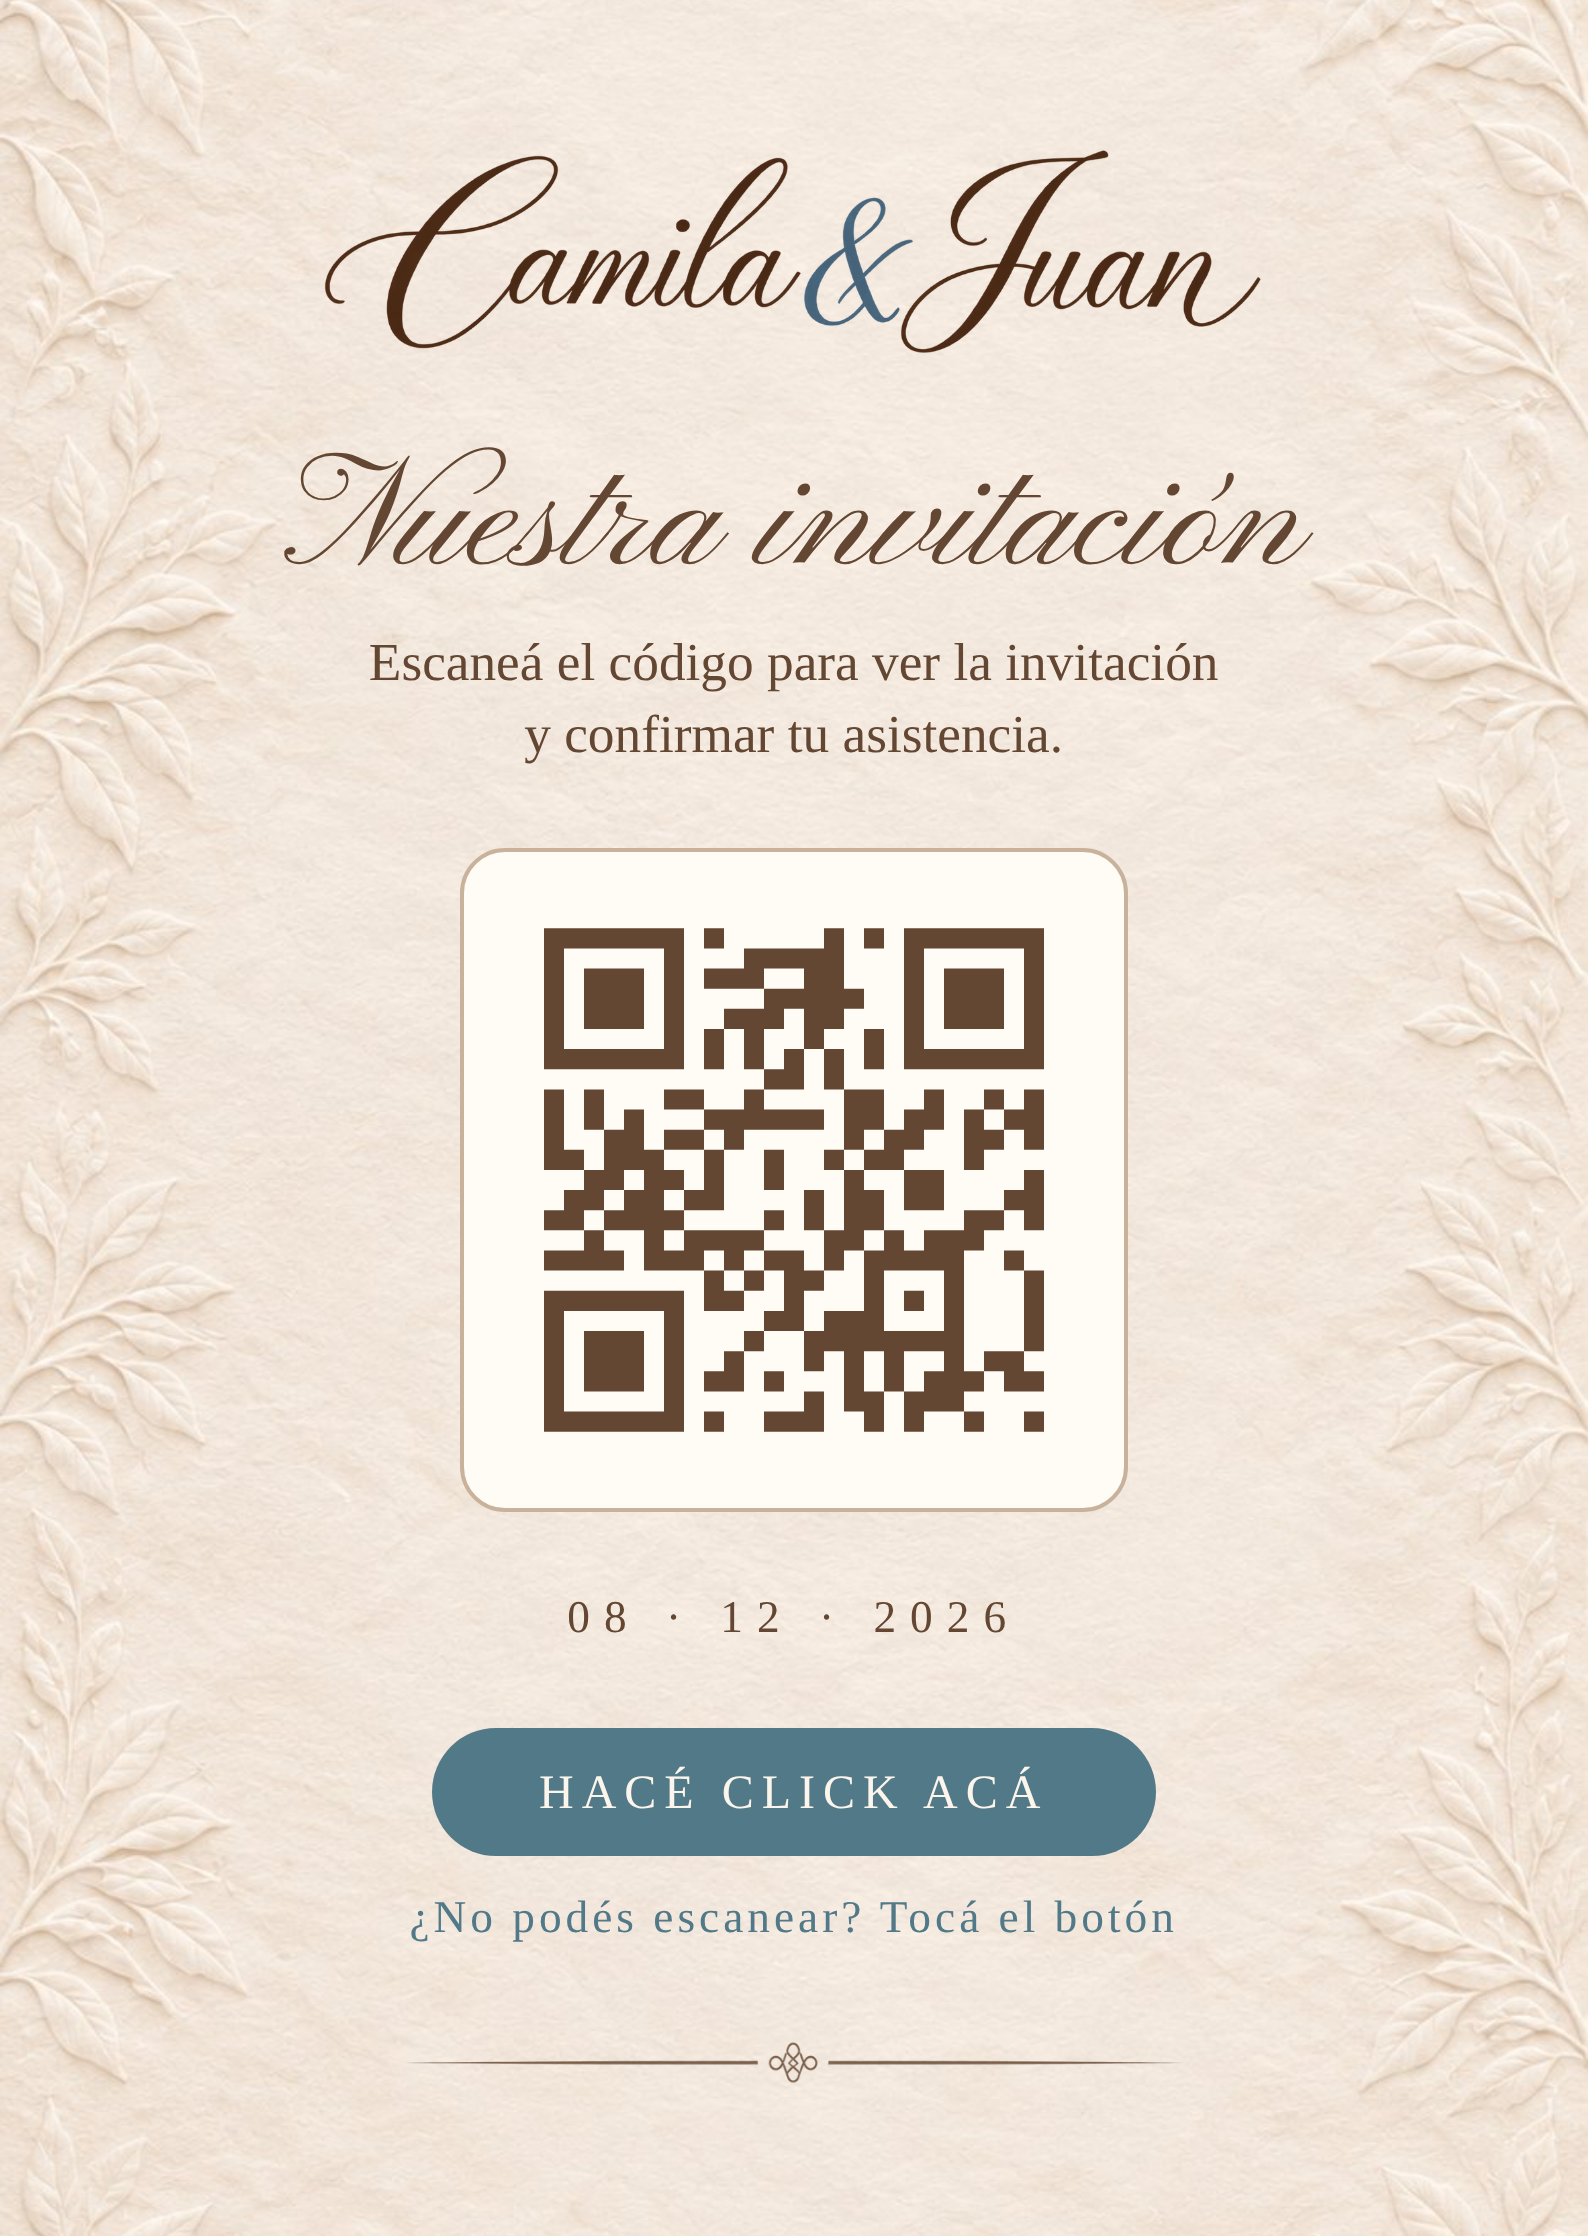
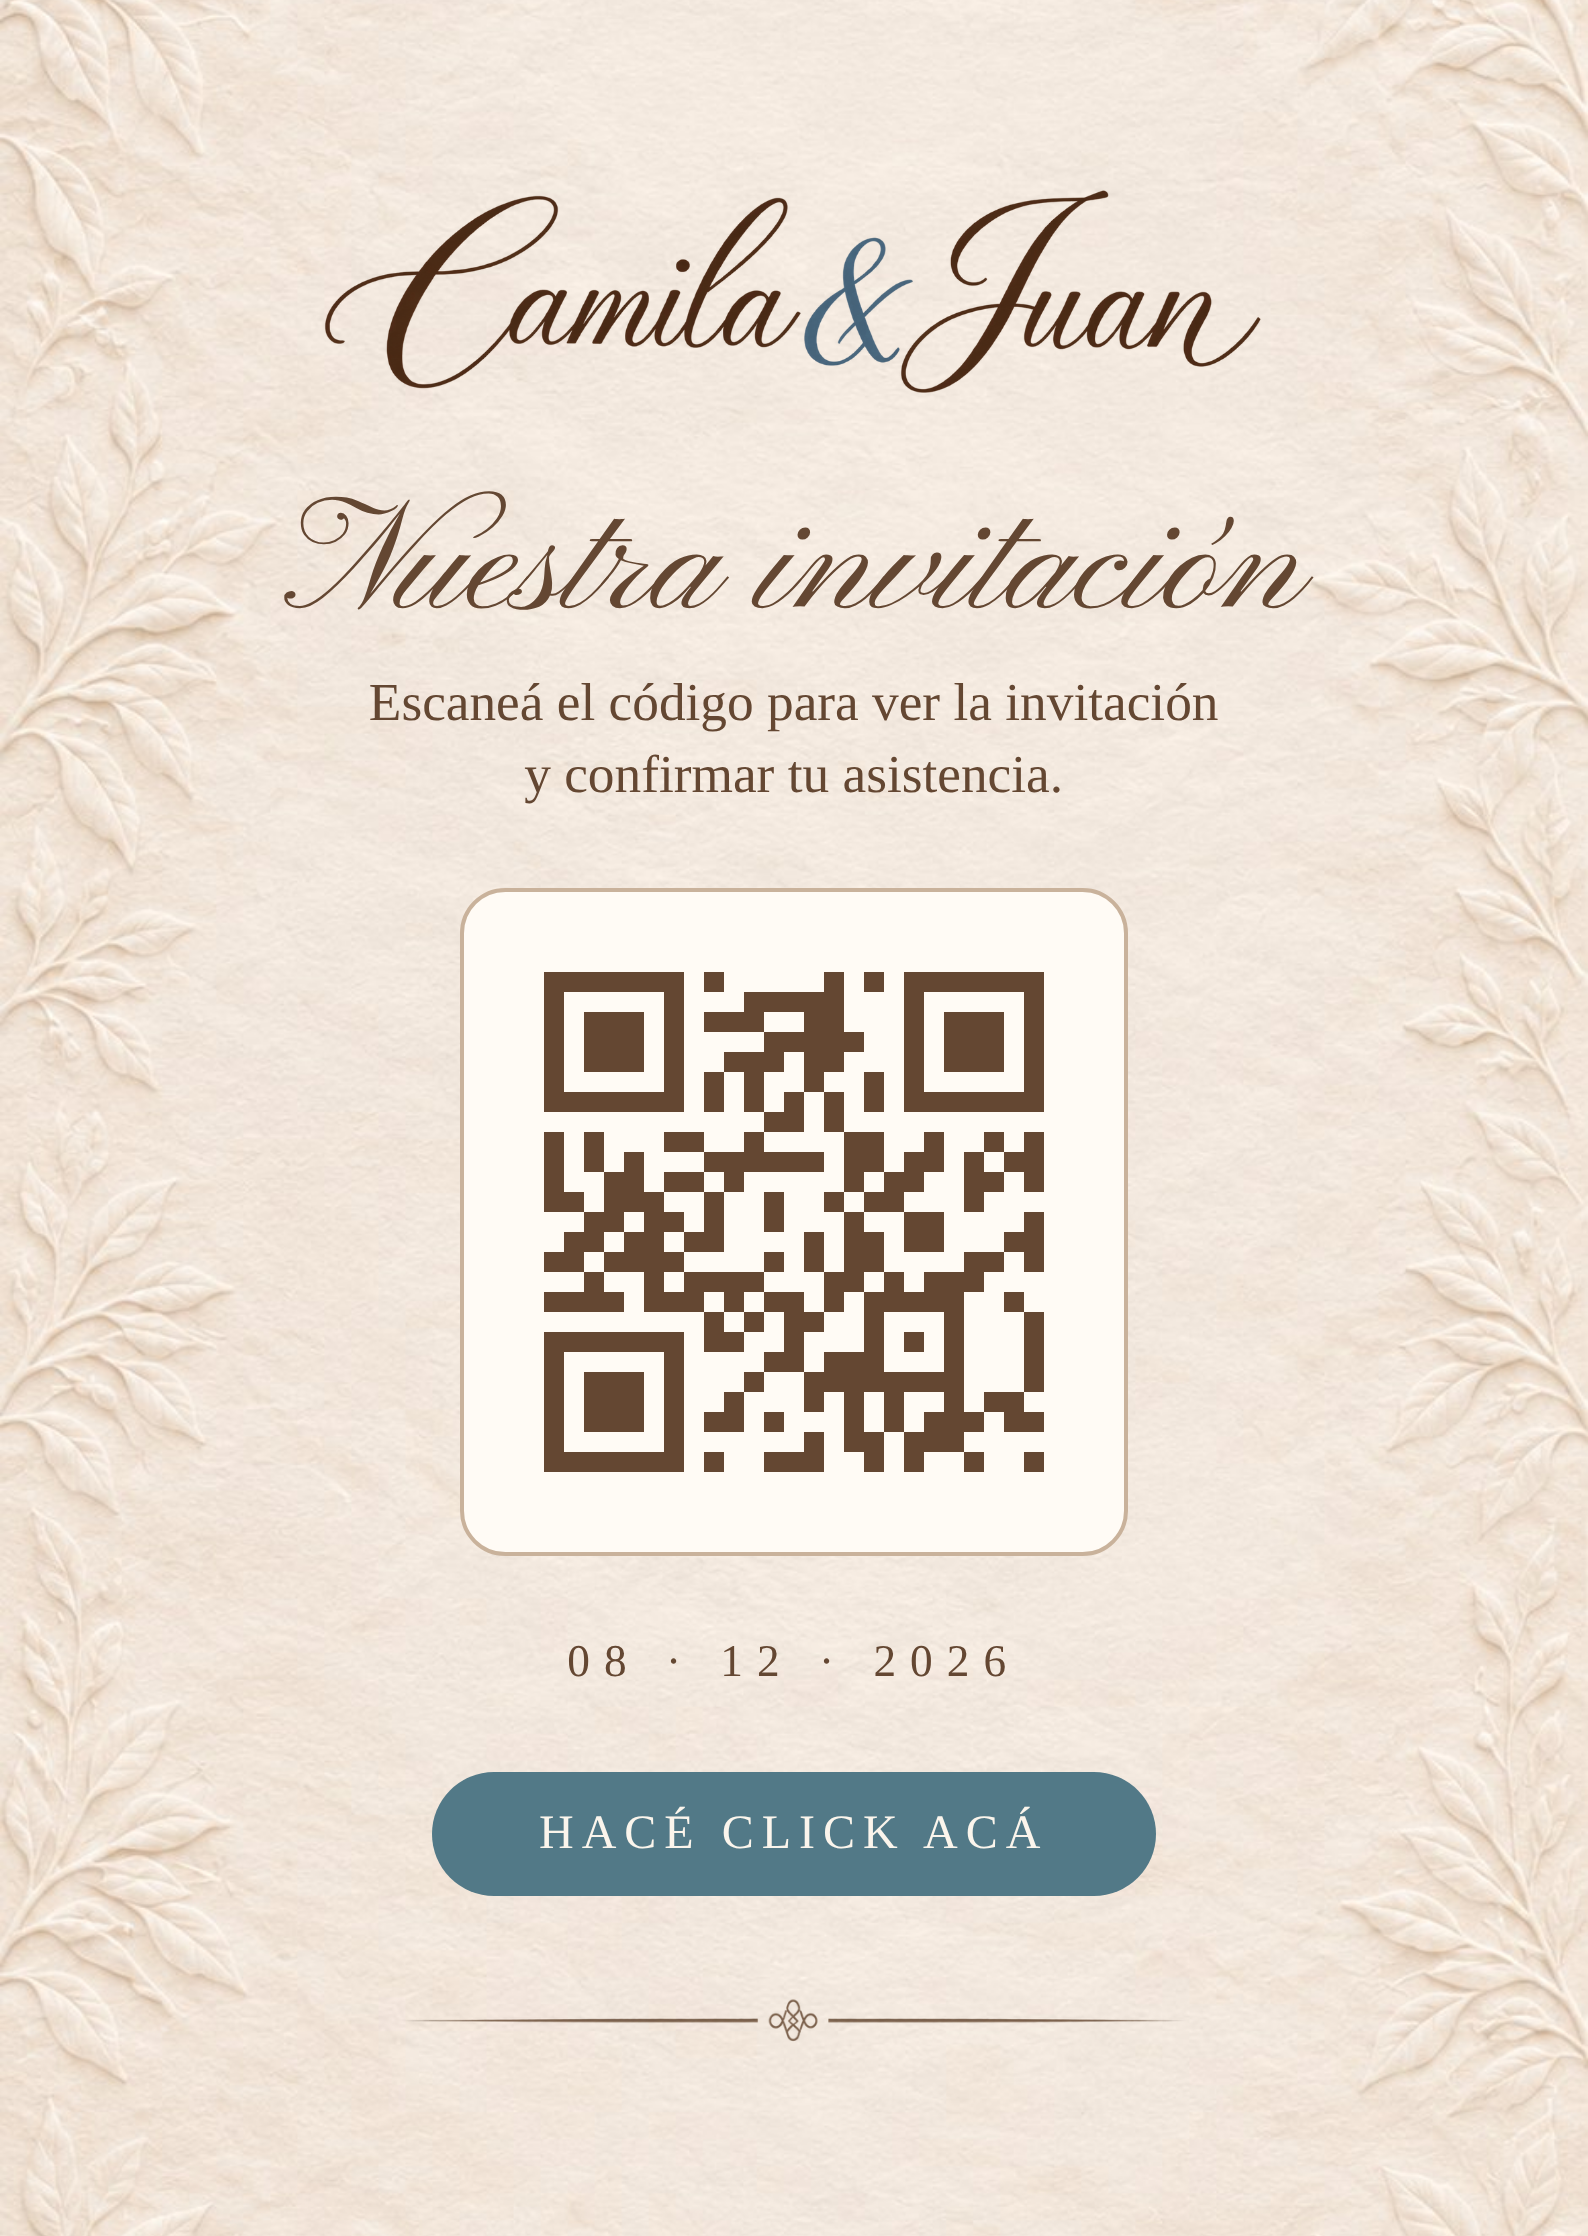
Tarjeta digital: sin el texto '¿No podés escanear?'
Claude-Session: https://claude.ai/code/session_01CPC8ckxxTpQ5o2jahJbfrt

diff --git a/invitacion/tarjeta-invitacion-digital.html b/invitacion/tarjeta-invitacion-digital.html
@@ -29,7 +29,6 @@
   <a href="https://camiyjuan.com/"><img class="qr" src="assets/qr-invitacion.svg" alt="QR de la invitación"></a>
   <p class="eyebrow">08 · 12 · 2026</p>
   <a class="btn" href="https://camiyjuan.com/">Hacé click acá</a>
-  <p class="tag" style="font-size:8.5pt">¿No podés escanear? Tocá el botón</p>
   <img class="line" src="assets/linea.png" alt="">
 </body>
 </html>
